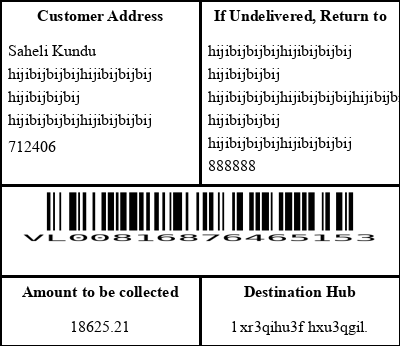
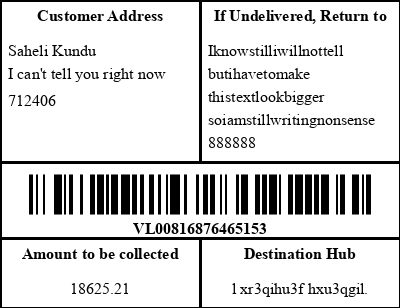
edited size

diff --git a/app.py b/app.py
@@ -18,8 +18,11 @@ def index():
         form_data = data
         CODE128 = barcode.get_barcode_class('code128')
         barcode_writer = ImageWriter()
-        barcode_writer.set_options({'write_text': False})
-        barcode_img = CODE128(data['barcode_number'], writer=barcode_writer).render()
+        # Ensure the barcode number is not rendered in the image
+        barcode_img = CODE128(
+            data['barcode_number'],
+            writer=barcode_writer
+        ).render(writer_options={'write_text': False, 'quiet_zone': 0})
 
         # Try to load Times font, fallback to DejaVuSans
         try:
@@ -69,13 +72,16 @@ def index():
 
         def draw_centered_header(text, box, font):
             w, _ = get_text_size(text, font)
-            max_width = box[2] - box[0] - 4
+            header_side_margin = 6  # Thin margin on both sides
+            max_width = box[2] - box[0] - 2 * header_side_margin
             if w > max_width:
                 import textwrap
                 lines = textwrap.wrap(text, width=18)
                 draw_centered_multiline(lines, box, font)
             else:
-                draw_centered_multiline(text, box, font)
+                # Shift the text right by header_side_margin for left margin
+                shifted_box = [box[0] + header_side_margin, box[1], box[2] - header_side_margin, box[3]]
+                draw_centered_multiline(text, shifted_box, font)
 
         # Image setup
         img_width = 400
@@ -105,9 +111,17 @@ def index():
         top_box_height = max(header_height + total_address_height, header_height + return_height)
 
         # Barcode section
-        barcode_height = 60
-        barcode_num_height = get_text_size(data['barcode_number'], font_bold)[1]
-        barcode_section_height = barcode_height + barcode_num_height + 20
+        barcode_height = 45  # Shorter height for a slim barcode
+        barcode_padding = 29  # or 30 for even more space
+        barcode_x = barcode_padding
+        barcode_w = img_width - 2 * barcode_padding
+        barcode_y = top_box_height + 10  # Padding from top
+        barcode_img_resized = barcode_img.resize((barcode_w, barcode_height))
+        
+        # Calculate barcode number text size for section height
+        barcode_num_text = data['barcode_number']
+        barcode_num_width, barcode_num_height = get_text_size(barcode_num_text, font_bold)
+        barcode_section_height = barcode_height + barcode_num_height + 20  # Adjusted for new height
 
         # Bottom section height
         amount_text = str(data['amount'])
@@ -147,12 +161,6 @@ def index():
             draw.text((img_width//2 + cell_pad_x, y), line, font=font_regular, fill='black')
             y += line_height_regular
 
-        # Draw barcode
-        barcode_w = img_width - 40
-        barcode_x = 20
-        barcode_y = top_box_height + 5
-        img.paste(barcode_img.resize((barcode_w, barcode_height)), (barcode_x, barcode_y))
-
         # Bottom left: Amount
         draw_centered_header("Amount to be collected", [0, top_box_height + barcode_section_height, img_width//2, top_box_height + barcode_section_height + header_height], font_bold)
         draw_centered_multiline(amount_text, [0, top_box_height + barcode_section_height + header_height, img_width//2, img_height], font_regular)
@@ -160,6 +168,13 @@ def index():
         # Bottom right: Destination Hub
         draw_centered_header("Destination Hub", [img_width//2, top_box_height + barcode_section_height, img_width, top_box_height + barcode_section_height + header_height], font_bold)
         draw_centered_multiline(hub_text, [img_width//2, top_box_height + barcode_section_height + header_height, img_width, img_height], font_regular)
+
+        # Draw barcode
+        img.paste(barcode_img_resized, (barcode_x, barcode_y))
+        # Draw barcode number centered below barcode
+        barcode_num_x = (img_width - barcode_num_width) // 2
+        barcode_num_y = barcode_y + barcode_height + 2  # 2px padding below barcode
+        draw.text((barcode_num_x, barcode_num_y), barcode_num_text, font=font_bold, fill='black')
 
         # Save image to file
         buf = io.BytesIO()
